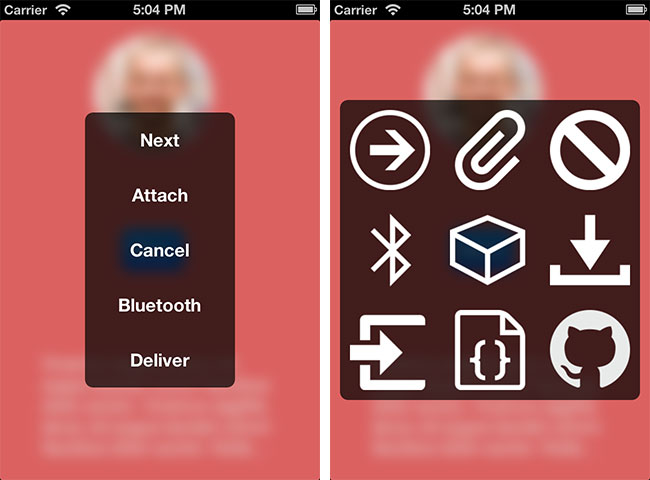
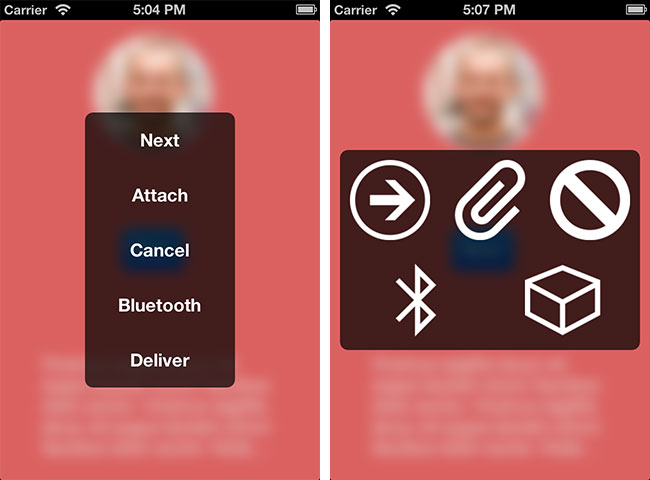
dif grid layout example

Changed region(s): [[0.5231, 0.1875, 0.9846, 0.8438], [0.7385, 0.0, 0.7692, 0.0312]]

diff --git a/RNAlertView/RNViewController.m b/RNAlertView/RNViewController.m
@@ -39,7 +39,7 @@
 }
 
 - (void)showImagesOnly {
-    NSInteger numberOfOptions = 9;
+    NSInteger numberOfOptions = 5;
     NSArray *images = @[
                         [UIImage imageNamed:@"arrow"],
                         [UIImage imageNamed:@"attachment"],
